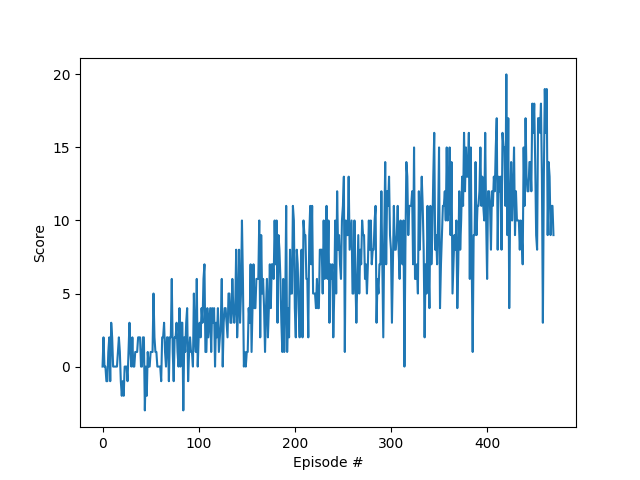
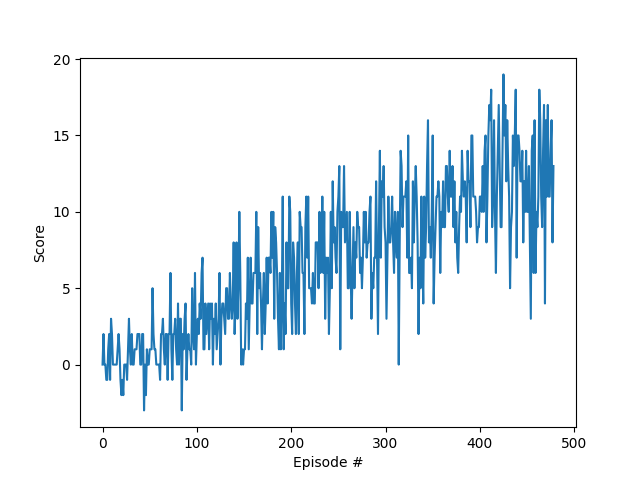
Tried out priority replay buffer, doesn't work

diff --git a/p1_navigation/dqn_agent.py b/p1_navigation/dqn_agent.py
@@ -11,11 +11,11 @@ import torch.nn.functional as F
 import torch.optim as optim
 
 BUFFER_SIZE = int(1e5)  # replay buffer size
-BATCH_SIZE = 64         # minibatch size
-GAMMA = 0.99            # discount factor
-TAU = 1e-3              # for soft update of target parameters
-LR = 5e-4               # learning rate 
-UPDATE_EVERY = 4        # how often to update the network
+BATCH_SIZE = 64  # minibatch size
+GAMMA = 0.99  # discount factor
+TAU = 1e-3  # for soft update of target parameters
+LR = 5e-4  # learning rate
+UPDATE_EVERY = 4  # how often to update the network
 
 
 class Agent():
@@ -38,7 +38,7 @@ class Agent():
         self.qnetwork_local = QNetwork(state_size, action_size, seed).to(device)
         self.qnetwork_target = QNetwork(state_size, action_size, seed).to(device)
         self.optimizer = optim.Adam(self.qnetwork_local.parameters(), lr=LR)
-        self.use_priority_buffer=use_priority_buffer
+        self.use_priority_buffer = use_priority_buffer
         # Replay memory
         if self.use_priority_buffer:
             self.memory = PriorityBuffer(action_size, BUFFER_SIZE, BATCH_SIZE, seed)
@@ -47,7 +47,7 @@ class Agent():
         # Initialize time step (for updating every UPDATE_EVERY steps)
         self.t_step = 0
 
-    def td_error(self, state, action, reward,next_state, done):
+    def td_error(self, state, action, reward, next_state, done):
         next_state_tensor = torch.from_numpy(next_state).float().unsqueeze(0).to(device)
         state_tensor = torch.from_numpy(state).float().unsqueeze(0).to(device)
 
@@ -61,13 +61,15 @@ class Agent():
             action_values = self.qnetwork_local(state_tensor)
         self.qnetwork_local.train()
         Q_expected = action_values.cpu().data.numpy()[0][action]
-        return Q_targets-Q_expected
+        return Q_targets - Q_expected
 
-    def step(self, state, action, reward, next_state, done):
+    def step(self, state, action, reward, next_state, done, b=0):
         # Save experience in replay memory
-        # error = self.td_error(state, action, reward, next_state, done)
+
         if self.use_priority_buffer:
-            self.memory.add(state, action, reward, next_state, done)
+            abs_td_error = np.abs(self.td_error(state, action, reward, next_state, done))
+
+            self.memory.add(state, action, reward, next_state, done, abs_td_error)
         else:
             self.memory.add(state, action, reward, next_state, done)
 
@@ -77,8 +79,9 @@ class Agent():
             # If enough samples are available in memory, get random subset and learn
             if len(self.memory) > BATCH_SIZE:
                 experiences = self.memory.sample()
-                self.learn(experiences, GAMMA)
-#         return state, action, reward, next_state, done,priority
+                self.learn(experiences, GAMMA, b)
+
+    #         return state, action, reward, next_state, done,priority
 
     def act(self, state, eps=0.):
         """Returns actions for given state as per current policy.
@@ -100,7 +103,7 @@ class Agent():
         else:
             return random.choice(np.arange(self.action_size))
 
-    def learn(self, experiences, gamma):
+    def learn(self, experiences, gamma, b=0):
         """Update value parameters using given batch of experience tuples.
 
         Params
@@ -117,6 +120,7 @@ class Agent():
         # Get max predicted Q values (for next states) from target model
         # Q_targets_next = self.qnetwork_target(next_states).detach().max(1)[0].unsqueeze(1)
 
+        # double DQN
         self.qnetwork_local.eval()
         with torch.no_grad():
             argmax_actions_from_local_Q = self.qnetwork_local(next_states).detach().max(1)[1].unsqueeze(1)
@@ -128,23 +132,21 @@ class Agent():
         Q_targets = rewards + (gamma * Q_targets_next * (1 - dones))
         # Get expected Q values from local model
         Q_expected = self.qnetwork_local(states).gather(1, actions)
-        
-#         sampling_weights = (1/BUFFER_SIZE*1/probs)**b
-        
-#         loss = F.mse_loss(Q_expected*sampling_weights, Q_targets*sampling_weights)
-        
-        loss = F.mse_loss(Q_expected, Q_targets)
+
+        if self.use_priority_buffer:
+            sampling_weights = (1/len(self.memory)*1/probs)**b
+            loss = F.mse_loss(Q_expected*sampling_weights, Q_targets*sampling_weights)
+        else:
+            loss = F.mse_loss(Q_expected, Q_targets)
 
         self.optimizer.zero_grad()
 
         loss.backward()
-        self.optimizer.step() 
-        
-
+        self.optimizer.step()
 
         # ------------------- update target network ------------------- #
-        
-        self.soft_update(self.qnetwork_local, self.qnetwork_target, TAU)                     
+
+        self.soft_update(self.qnetwork_local, self.qnetwork_target, TAU)
 
     def soft_update(self, local_model, target_model, tau):
         """Soft update model parameters.
@@ -157,4 +159,4 @@ class Agent():
             tau (float): interpolation parameter 
         """
         for target_param, local_param in zip(target_model.parameters(), local_model.parameters()):
-            target_param.data.copy_(tau*local_param.data + (1.0-tau)*target_param.data)
+            target_param.data.copy_(tau * local_param.data + (1.0 - tau) * target_param.data)

diff --git a/p1_navigation/priority_buffer.py b/p1_navigation/priority_buffer.py
@@ -1,13 +1,16 @@
-from collections import namedtuple, deque
-import torch
 import random
-from device import device
+from collections import namedtuple, deque
+
 import numpy as np
+import torch
+
+from device import device
+
 
 class PriorityBuffer:
     """Fixed-size buffer to store experience tuples."""
 
-    def __init__(self, action_size, buffer_size, batch_size, seed):
+    def __init__(self, action_size, buffer_size, batch_size, seed, e_for_non_zero=1e-3, uniform_sample_factor=0.5):
         """Initialize a ReplayBuffer object.
 
         Params
@@ -21,26 +24,21 @@ class PriorityBuffer:
         self.memory = deque(maxlen=buffer_size)
         self.batch_size = batch_size
         self.experience = namedtuple("Experience",
-                                     field_names=["state", "action", "reward", "next_state", "done", "priority"])
+                                     field_names=["state", "action", "reward", "next_state", "done", "abs_td_error"])
         self.seed = random.seed(seed)
-        self.e = 1e-3
-        self.unform_sample_factor = 0.5  # 0 means completely uniform
+        self.e = e_for_non_zero
+        self.uniform_sample_factor = uniform_sample_factor  # 0 means completely uniform
 
-    def add(self, state, action, reward, next_state, done, priority):
+    def add(self, state, action, reward, next_state, done, abs_td_error):
         """Add a new experience to memory."""
-        e = self.experience(state, action, reward, next_state, done, priority)
+        e = self.experience(state, action, reward, next_state, done, abs_td_error)
         self.memory.append(e)
 
     def sample(self):
         """Randomly sample a batch of experiences from memory."""
-        #         prios = np.asarray([experience.priority for experience in self.memory])
-        #         prios+=self.e
-        #         prios = prios**self.unform_sample_factor
-        #         prios_sum=np.sum(prios)
-
-        #         probs = prios/prios_sum
-        experiences = random.sample(self.memory, k=self.batch_size)
-        #         experiences = random.choices(self.memory, weights= probs, k=self.batch_size)
+        probs = self.abs_td_errors_to_probs()
+        experience_inds = np.random.choice(len(self.memory), size=self.batch_size, replace=False, p=probs)
+        experiences = [self.memory[i] for i in experience_inds]
 
         states = torch.from_numpy(np.vstack([e.state for e in experiences if e is not None])).float().to(device)
         actions = torch.from_numpy(np.vstack([e.action for e in experiences if e is not None])).long().to(device)
@@ -49,11 +47,17 @@ class PriorityBuffer:
             device)
         dones = torch.from_numpy(np.vstack([e.done for e in experiences if e is not None]).astype(np.uint8)).float().to(
             device)
-        prios = np.array([e.priority for e in experiences if e is not None])
-        #         prios=prios**self.unform_sample_factor/prios_sum
-        probs = torch.from_numpy(np.vstack(prios)).float().to(device)
+        sampled_probs = probs[experience_inds]
+        sampled_probs = torch.from_numpy(np.vstack(sampled_probs)).float().to(device)
 
-        return (states, actions, rewards, next_states, dones, probs)
+        return (states, actions, rewards, next_states, dones, sampled_probs)
+
+    def abs_td_errors_to_probs(self):
+        abs_td_errors = np.asarray([experience.abs_td_error for experience in self.memory])
+        abs_td_errors += self.e
+        td_errors_factored = abs_td_errors ** self.uniform_sample_factor
+        probs = td_errors_factored / np.sum(td_errors_factored)
+        return probs
 
     def __len__(self):
         """Return the current size of internal memory."""

diff --git a/p1_navigation/navigation.py b/p1_navigation/navigation.py
@@ -1,15 +1,18 @@
-from unityagents import UnityEnvironment
 import time
+from collections import deque
+
+import matplotlib.pyplot as plt
 import numpy as np
 import torch
-from collections import deque
+from unityagents import UnityEnvironment
+
 from dqn_agent import Agent
-import matplotlib.pyplot as plt
 
 
 def get_next_state(env_info):
     next_state = env_info.vector_observations[0]  # get the next state
     return next_state
+
 
 def get_reward(env_info):
     reward = env_info.rewards[0]  # get the reward
@@ -20,8 +23,10 @@ def get_done(env_info):
     done = env_info.local_done[0]  # see if episode has finished
     return done
 
+
 def get_env_step_results(env_info):
     return get_next_state(env_info), get_reward(env_info), get_done(env_info)
+
 
 class Environment(object):
     def __init__(self, env, seed=42):
@@ -42,7 +47,7 @@ class Environment(object):
         print('States look like:', state)
         self._state_size = len(state)
         print('States have length:', self._state_size)
-        self._seed= seed
+        self._seed = seed
         self._agent = Agent(self._state_size, self._action_size, self._seed)
 
     def run_model(self, model, num_episode=3, steps_per_episode=300):
@@ -58,7 +63,7 @@ class Environment(object):
                 next_state, reward, done = get_env_step_results(env_info)
                 score += reward  # update the score
                 state = next_state  # roll over the state to next time step
-                time.sleep(1/30.0)
+                time.sleep(1 / 30.0)
                 if done:
                     print("Episode: {}, score: {}".format(i, score))
                     break
@@ -81,6 +86,7 @@ class Environment(object):
         scores_window = deque(maxlen=100)  # last 100 scores
         eps = eps_start
 
+        b = 1e-4
         for i_episode in range(1, n_episodes + 1):
             env_info = self._env.reset(train_mode=True)[self._brain_name]
             state = get_next_state(env_info)
@@ -89,7 +95,7 @@ class Environment(object):
                 action = self._agent.act(state, eps)
                 env_info = self._env.step(action)[self._brain_name]  # send the action to the environment
                 next_state, reward, done = get_env_step_results(env_info)
-                self._agent.step(state, action, reward, next_state, done)
+                self._agent.step(state, action, reward, next_state, done, b)
                 score += reward  # update the score
                 state = next_state  # roll over the state to next time step
                 if done:
@@ -97,6 +103,7 @@ class Environment(object):
             scores_window.append(score)  # save most recent score
             scores.append(score)  # save most recent score
             eps = max(eps_end, eps_decay * eps)  # decrease epsilon
+            b = min(1.0, b * 1.001)
             print('\rEpisode {}\tAverage Score: {:.2f}'.format(i_episode, np.mean(scores_window)), end="")
             if i_episode % 100 == 0:
                 print('\rEpisode {}\tAverage Score: {:.2f}'.format(i_episode, np.mean(scores_window)))
@@ -124,4 +131,3 @@ if __name__ == "__main__":
     scores = env.train()
     plot_scores(scores)
     env.close()
-

diff --git a/p1_navigation/model.py b/p1_navigation/model.py
@@ -1,8 +1,7 @@
-import copy
-
 import torch
 import torch.nn as nn
 import torch.nn.functional as F
+
 
 class QNetwork(nn.Module):
     """Actor (Policy) Model."""
@@ -19,25 +18,19 @@ class QNetwork(nn.Module):
         """
         super(QNetwork, self).__init__()
         self.seed = torch.manual_seed(seed)
-        base_size=8
-        self.fc_bb_1 = nn.Linear(state_size, base_size*16)
-        # self.fc_bb_2 = nn.Linear(base_size*16, base_size*16)
+        base_size = 8
+        self.fc_bb_1 = nn.Linear(state_size, base_size * 16)
 
-        # self.fc_s_head_1 = nn.Linear(base_size*16, base_size*8)
-        self.fc_s_head_2 = nn.Linear(base_size*16, 1)
+        self.fc_s_head_2 = nn.Linear(base_size * 16, 1)
 
-        # self.fc_a_head_1 = nn.Linear(base_size*16, base_size*16)
-        self.fc_a_head_2 = nn.Linear(base_size*16, action_size)
+        self.fc_a_head_2 = nn.Linear(base_size * 16, action_size)
 
     def forward(self, state):
         """Build a network that maps state -> action values."""
-        x=F.relu(self.fc_bb_1(state))
-        # base=F.relu(self.fc_bb_2(x))
-        base=x
+        x = F.relu(self.fc_bb_1(state))
+        base = x
 
-        # x1 = F.relu(self.fc_s_head_1(base))
         state_value = self.fc_s_head_2(base)
 
-        # x2 = F.relu(self.fc_a_head_1(base))
         action_values = self.fc_a_head_2(base)
         return action_values.sub_(action_values.mean()).add_(state_value)

diff --git a/p1_navigation/run_model.py b/p1_navigation/run_model.py
@@ -1,7 +1,6 @@
-from navigation import Environment
 from unityagents import UnityEnvironment
-import torch
 
+from navigation import Environment
 
 if __name__ == "__main__":
     env = Environment(UnityEnvironment(file_name="Banana_Linux/Banana.x86_64"))
